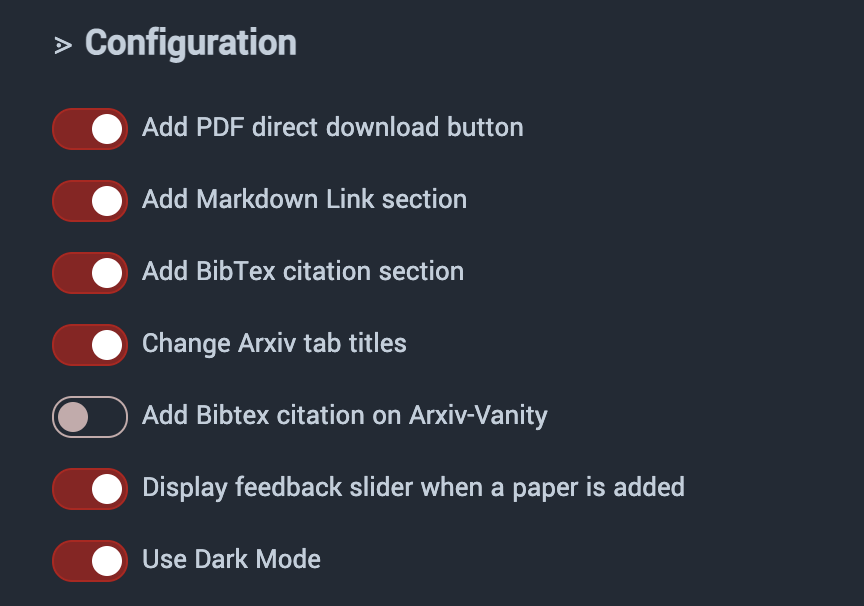
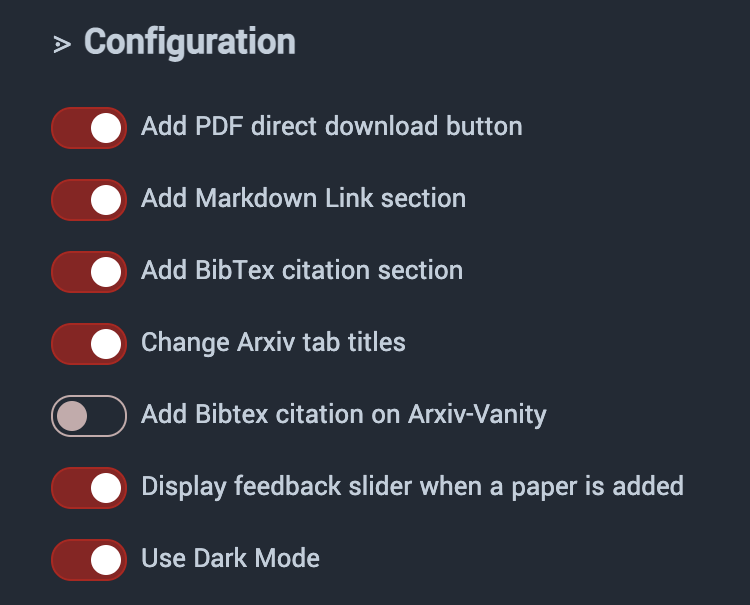
update menu

diff --git a/Readme.md b/Readme.md
@@ -41,7 +41,7 @@ Supported venues:
 Customize features in the menu:
 
 <p align="center">
-<img src="https://github.com/vict0rsch/PaperMemory/blob/master/extra/imgs/m.png?raw=true">
+<img width="400" src="https://github.com/vict0rsch/PaperMemory/blob/master/extra/imgs/m.png?raw=true">
 </p>
 
 Switch between Light and Dark mode
